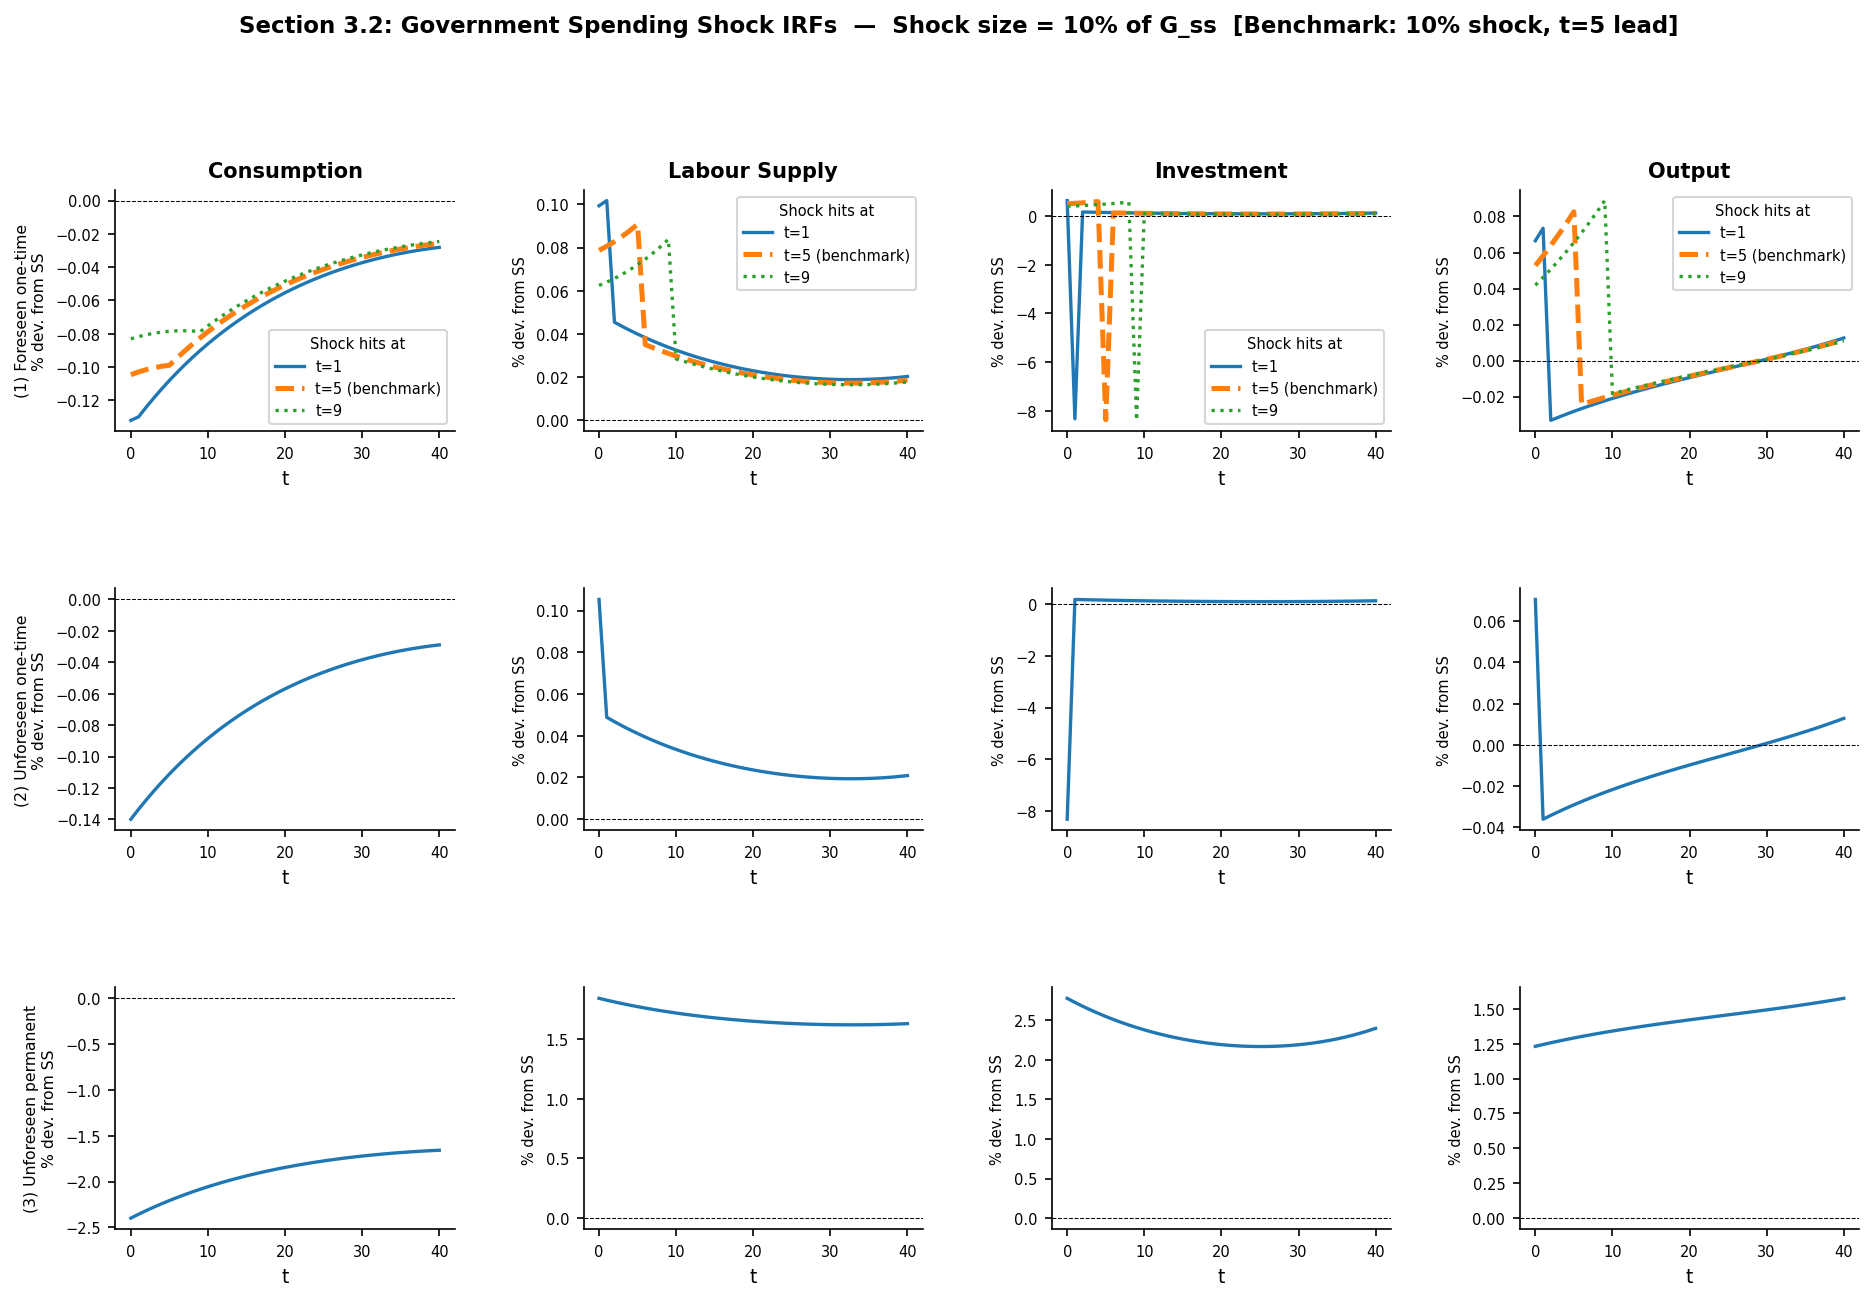
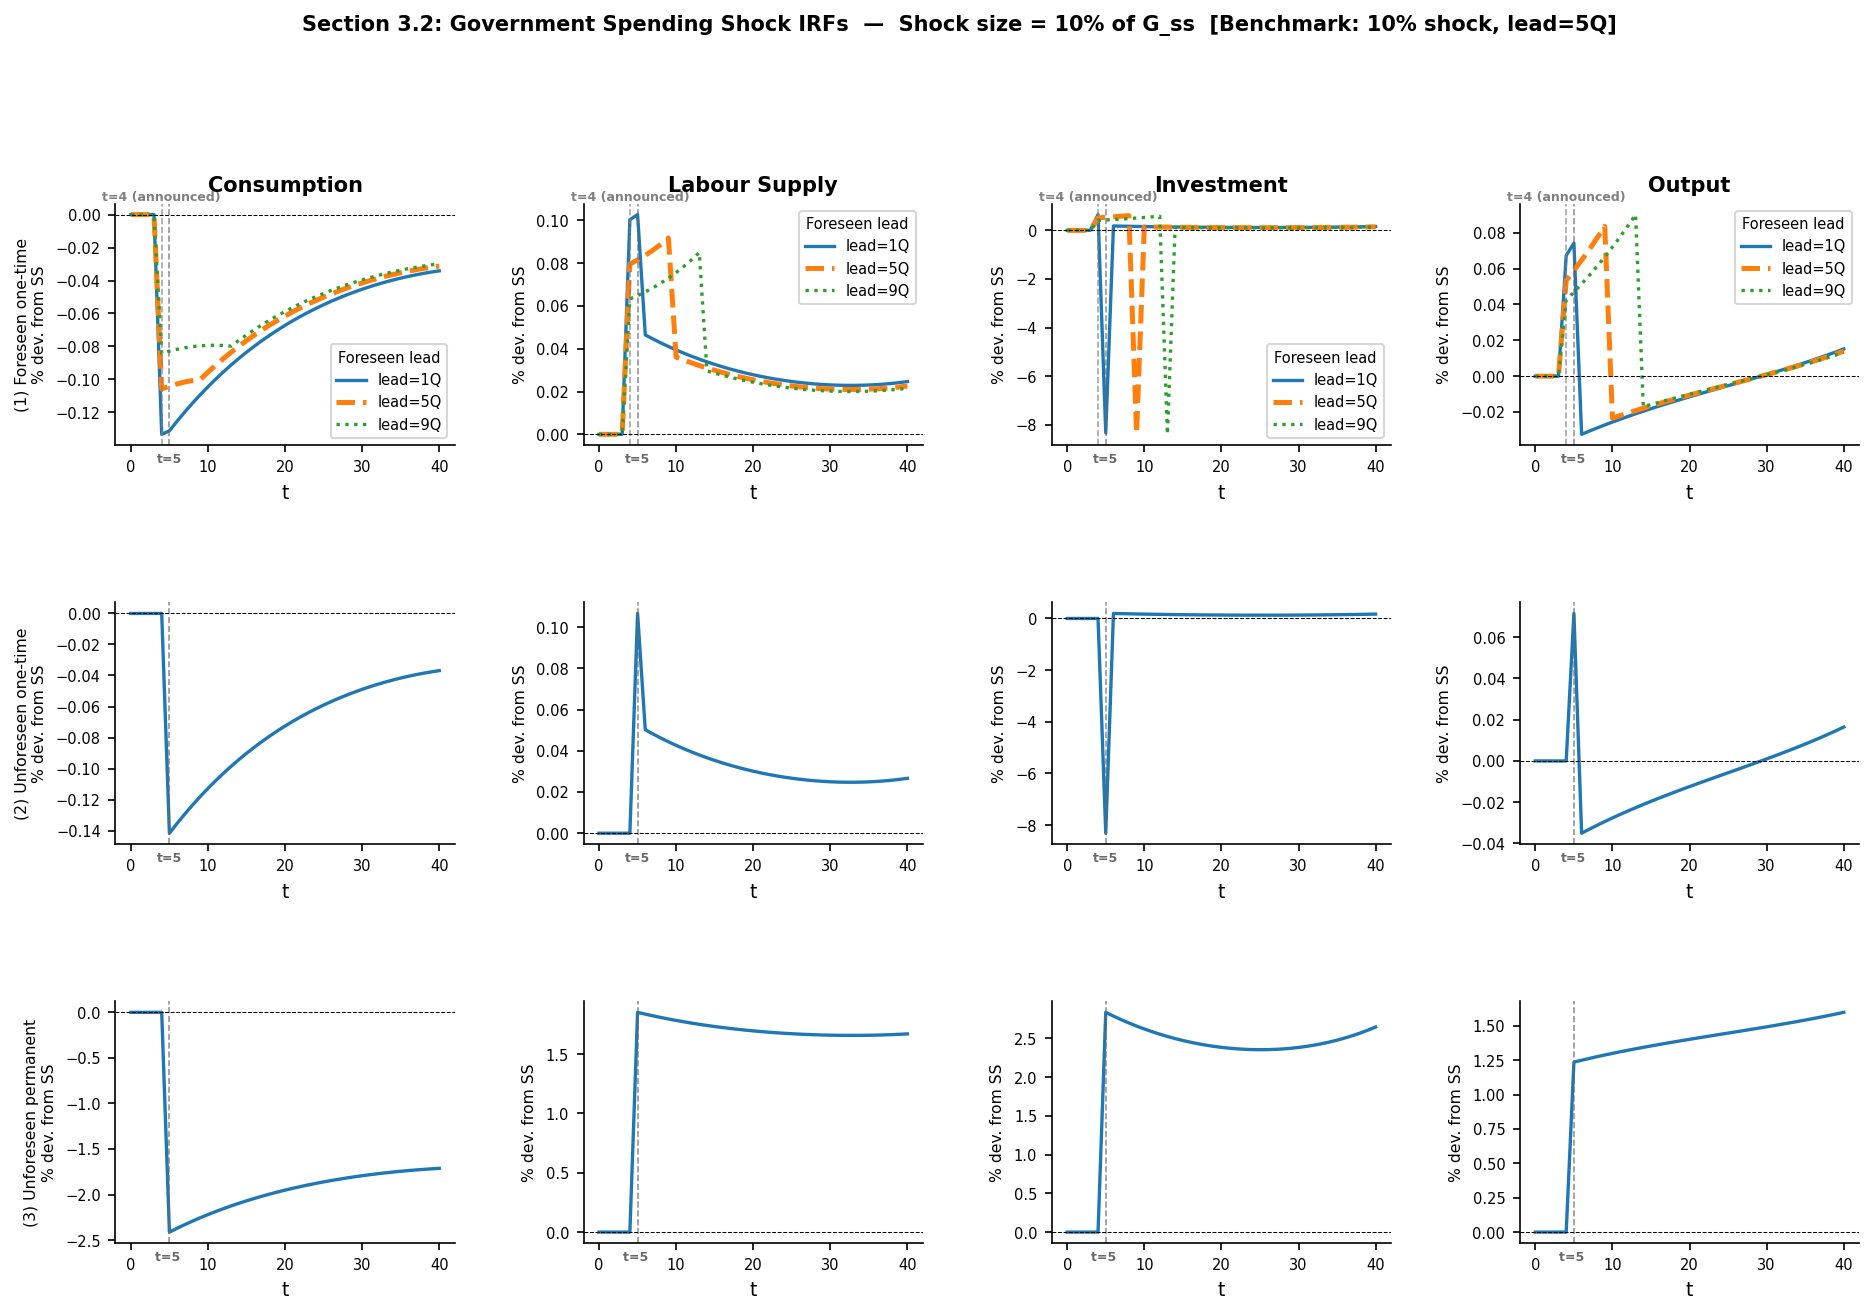
Add IRF plotting fixes

diff --git a/section_3_2_updated.py b/section_3_2_updated.py
@@ -1,3 +1,31 @@
+"""
+FE5213 Group Project - Section 3.2
+====================================
+Produces 3 figures, one per shock size (1%, 5%, 10%).
+
+Each figure: 3 rows x 4 cols (C, L, I, Y)
+  Row 1 (Foreseen one-time):    3 lines — leads 1Q, 5Q, 9Q overlaid
+  Row 2 (Unforeseen one-time):  single line
+  Row 3 (Unforeseen permanent): single line
+
+Timeline (plot time):
+  t=0 to t=3 : flat SS — nobody knows anything
+  t=4         : FORESEEN ground zero — announcement made
+  t=5         : UNFORESEEN ground zero — G hits with no warning
+                also where G first hits for foreseen lead=1Q
+  Foreseen leads:
+    lead=1Q → G hits t=5
+    lead=5Q → G hits t=9
+    lead=9Q → G hits t=13
+
+Solver domains:
+  Foreseen  : solver t=0 = plot t=4, T_DYN_FOR=36 → length 37, prepend 4 → 41
+  Unforeseen: solver t=0 = plot t=5, T_DYN_UNF=35 → length 36, prepend 5 → 41
+  tgrid: t=0 to t=40 (41 points)
+
+Benchmark: 10% shock, lead=5Q (G hits t=9)
+"""
+
 import numpy as np
 from scipy.optimize import fsolve
 import matplotlib.pyplot as plt
@@ -14,12 +42,19 @@ delta     = 0.025
 z_sim     = 1.0
 g_y_ratio = 0.20
 target_L  = 1.0 / 3.0
-T         = 40
 
-SHOCK_SIZES    = [0.01, 0.05, 0.10]   # 1%, 5%, 10% of G_ss
-FORESEEN_DATES = [1, 5, 9]            # announcement leads (quarters)
-BENCHMARK_LEAD = 5                     # benchmark foreseen lead
-BENCHMARK_SIZE = 0.10                  # benchmark shock size
+T_PRE_FOR  = 4
+T_DYN_FOR  = 36
+T_PRE_UNF  = 5
+T_DYN_UNF  = 35
+
+GROUND_ZERO_FORESEEN   = 4
+GROUND_ZERO_UNFORESEEN = 5
+
+SHOCK_SIZES    = [0.01, 0.05, 0.10]
+FORESEEN_LEADS = [1, 5, 9]
+BENCHMARK_LEAD = 5
+BENCHMARK_SIZE = 0.10
 
 # =============================================================================
 # 2. CORE MODEL EQUATIONS
@@ -76,7 +111,7 @@ def steady_state_eqs(vars, z, chi, G_fixed):
 def solve_steady_state(z, chi, G_fixed, guess=(10.0, 0.33, 1.0)):
     K, L, C = fsolve(steady_state_eqs, guess, args=(z, chi, G_fixed))
     Y = production_function(K, L, z)
-    return {"K": K, "L": L, "C": C, "Y": Y, "I": delta*K,
+    return {"K": K, "L": L, "C": C, "Y": Y, "I": delta * K,
             "G": G_fixed, "w": marginal_product_labor(K, L, z),
             "rk": marginal_product_capital(K, L, z)}
 
@@ -98,12 +133,13 @@ def transition_system(x, K0, z, chi, G_path, terminal_K):
             return np.ones(3*(T_loc+1)) * 1e6
         Y_t = production_function(K_t, L_t, z)
         w_t = marginal_product_labor(K_t, L_t, z)
-        eqs.append(chi*(L_t**phi) - w_t*(C_t**(-sigma)))
+        eqs.append(chi * (L_t**phi) - w_t * (C_t**(-sigma)))
         eqs.append(Y_t - C_t - G_t - (K_next_path[t] - (1-delta)*K_t))
 
     for t in range(T_loc):
         rk_tp1 = marginal_product_capital(K_next_path[t], L_path[t+1], z)
-        eqs.append((C_path[t]**(-sigma)) - beta*(C_path[t+1]**(-sigma))*(rk_tp1+1-delta))
+        eqs.append((C_path[t]**(-sigma))
+                   - beta * (C_path[t+1]**(-sigma)) * (rk_tp1 + 1 - delta))
 
     eqs.append(K_next_path[T_loc] - terminal_K)
     return np.array(eqs)
@@ -120,8 +156,8 @@ def solve_transition(K0, z, chi, G_path, initial_ss, terminal_ss):
                  args=(K0, z, chi, G_path, terminal_ss["K"]),
                  xtol=1e-10, maxfev=50000)
 
-    C_path      = sol[0       : T_loc+1]
-    L_path      = sol[T_loc+1 : 2*(T_loc+1)]
+    C_path      = sol[0          : T_loc+1]
+    L_path      = sol[T_loc+1    : 2*(T_loc+1)]
     K_next_path = sol[2*(T_loc+1): 3*(T_loc+1)]
 
     K_path    = np.zeros(T_loc+1)
@@ -139,22 +175,31 @@ def solve_transition(K0, z, chi, G_path, initial_ss, terminal_ss):
     return {"K": K_path, "C": C_path, "L": L_path,
             "Y": Y_path, "I": I_path, "G": G_path}
 
+
+def prepend_ss(res, ss, n_pre):
+    out = {}
+    for var in ["C", "L", "Y", "I", "K", "G"]:
+        pre = np.full(n_pre, ss[var])
+        out[var] = np.concatenate([pre, res[var]])
+    return out
+
 # =============================================================================
 # 5. SHOCK PATH BUILDERS
 # =============================================================================
 
-def make_foreseen_path(G_ss, shock_size, T_sim, lead):
-    path = np.full(T_sim+1, G_ss)
-    path[lead] = G_ss * (1.0 + shock_size)
+def make_foreseen_path(G_ss, shock_size, lead):
+    path = np.full(T_DYN_FOR + 1, G_ss)
+    if lead <= T_DYN_FOR:
+        path[lead] = G_ss * (1.0 + shock_size)
     return path
 
-def make_unforeseen_onetime_path(G_ss, shock_size, T_sim):
-    path = np.full(T_sim+1, G_ss)
+def make_unforeseen_onetime_path(G_ss, shock_size):
+    path = np.full(T_DYN_UNF + 1, G_ss)
     path[0] = G_ss * (1.0 + shock_size)
     return path
 
-def make_permanent_path(G_ss, shock_size, T_sim):
-    return np.full(T_sim+1, G_ss * (1.0 + shock_size))
+def make_permanent_path(G_ss, shock_size):
+    return np.full(T_DYN_UNF + 1, G_ss * (1.0 + shock_size))
 
 # =============================================================================
 # 6. PLOTTING
@@ -166,23 +211,16 @@ def pct_dev(path, ss_val):
 
 def plot_figure(foreseen_by_lead, res_unforeseen, res_permanent,
                 ss, shock_size_pct, save_path=None):
-    """
-    One figure per shock size. 3 rows x 4 cols.
-      Row 1: foreseen — 3 lines (t=1, 5, 9) overlaid; t=5 is benchmark
-      Row 2: unforeseen one-time — single line
-      Row 3: unforeseen permanent — single line
-    """
-    vars_plot  = [("C","Consumption"), ("L","Labour Supply"),
-                  ("I","Investment"),  ("Y","Output")]
-    row_labels = [
-        "(1) Foreseen one-time",
-        "(2) Unforeseen one-time",
-        "(3) Unforeseen permanent",
-    ]
+
+    vars_plot  = [("C", "Consumption"), ("L", "Labour Supply"),
+                  ("I", "Investment"),  ("Y", "Output")]
+    row_labels = ["(1) Foreseen one-time",
+                  "(2) Unforeseen one-time",
+                  "(3) Unforeseen permanent"]
     colors     = ["#1f77b4", "#ff7f0e", "#2ca02c"]
     linestyles = ["-", "--", ":"]
-    linewidths = [1.6, 1.6, 1.6]
-    tgrid      = np.arange(T + 1)
+
+    tgrid = np.arange(T_PRE_FOR + T_DYN_FOR + 1)   # 41 points t=0..40
 
     fig, axes = plt.subplots(
         3, 4, figsize=(15, 9),
@@ -193,63 +231,80 @@ def plot_figure(foreseen_by_lead, res_unforeseen, res_permanent,
 
     for col, (var, var_label) in enumerate(vars_plot):
 
-        # Row 0: foreseen, 3 leads overlaid
+        # ── Row 0: foreseen ───────────────────────────────────────────────────
         ax = axes[0, col]
-        for (lead, color, ls, lw) in zip(
-                FORESEEN_DATES, colors, linestyles, linewidths):
-            # thicker line for benchmark lead
-            lw_use = 2.4 if (lead == BENCHMARK_LEAD and is_benchmark) else lw
-            label  = f"t={lead} (benchmark)" if (
-                lead == BENCHMARK_LEAD and is_benchmark) else f"t={lead}"
-            ax.plot(tgrid, pct_dev(foreseen_by_lead[lead][var], ss[var]),
-                    label=label, color=color,
-                    linewidth=lw_use, linestyle=ls)
+        for lead, color, ls in zip(FORESEEN_LEADS, colors, linestyles):
+            lw    = 2.4 if (lead == BENCHMARK_LEAD and is_benchmark) else 1.6
+            label = (f"lead={lead}Q"
+                     if lead == BENCHMARK_LEAD and is_benchmark
+                     else f"lead={lead}Q")
+            full = prepend_ss(foreseen_by_lead[lead], ss, n_pre=T_PRE_FOR)
+            ax.plot(tgrid, pct_dev(full[var], ss[var]),
+                    label=label, color=color, linewidth=lw, linestyle=ls)
+
+        ax.axvline(GROUND_ZERO_FORESEEN, color="gray", linewidth=0.8,
+                   linestyle="--", alpha=0.7)
+        ax.text(GROUND_ZERO_FORESEEN, 1, f"t={GROUND_ZERO_FORESEEN} (announced)",
+                fontsize=6, color="gray", fontweight="bold",
+                ha="center", va="bottom", transform=ax.get_xaxis_transform())
+        ax.axvline(GROUND_ZERO_UNFORESEEN, color="dimgray", linewidth=0.8,
+                   linestyle="--", alpha=0.7, ymin=0, ymax=1)
+        ax.text(GROUND_ZERO_UNFORESEEN, -0.03, f"t={GROUND_ZERO_UNFORESEEN}",
+                fontsize=6, color="dimgray", fontweight="bold",
+                ha="center", va="top", transform=ax.get_xaxis_transform())
         ax.axhline(0, color="black", linewidth=0.5, linestyle="--")
         ax.set_title(var_label, fontsize=10, fontweight="bold", pad=6)
-        if col == 0:
-            ax.set_ylabel(row_labels[0] + "\n% dev. from SS", fontsize=7.5)
-        else:
-            ax.set_ylabel("% dev. from SS", fontsize=7)
+        ax.set_ylabel(row_labels[0] + "\n% dev. from SS"
+                      if col == 0 else "% dev. from SS", fontsize=7.5)
         ax.set_xlabel("t", fontsize=9)
         ax.tick_params(labelsize=7)
         ax.spines["top"].set_visible(False)
         ax.spines["right"].set_visible(False)
-        ax.legend(fontsize=7, title="Shock hits at",
+        ax.legend(fontsize=7, title="Foreseen lead",
                   title_fontsize=7, loc="best")
 
-        # Row 1: unforeseen one-time
+        # ── Row 1: unforeseen one-time ─────────────────────────────────────────
         ax = axes[1, col]
-        ax.plot(tgrid, pct_dev(res_unforeseen[var], ss[var]),
+        full = prepend_ss(res_unforeseen, ss, n_pre=T_PRE_UNF)
+        ax.plot(tgrid, pct_dev(full[var], ss[var]),
                 color="#1f77b4", linewidth=1.6)
+        ax.axvline(GROUND_ZERO_UNFORESEEN, color="dimgray", linewidth=0.8,
+                   linestyle="--", alpha=0.7, ymin=0, ymax=1)
+        ax.text(GROUND_ZERO_UNFORESEEN, -0.03, f"t={GROUND_ZERO_UNFORESEEN}",
+                fontsize=6, color="dimgray", fontweight="bold",
+                ha="center", va="top", transform=ax.get_xaxis_transform())
         ax.axhline(0, color="black", linewidth=0.5, linestyle="--")
-        if col == 0:
-            ax.set_ylabel(row_labels[1] + "\n% dev. from SS", fontsize=7.5)
-        else:
-            ax.set_ylabel("% dev. from SS", fontsize=7)
+        ax.set_ylabel(row_labels[1] + "\n% dev. from SS"
+                      if col == 0 else "% dev. from SS", fontsize=7.5)
         ax.set_xlabel("t", fontsize=9)
         ax.tick_params(labelsize=7)
         ax.spines["top"].set_visible(False)
         ax.spines["right"].set_visible(False)
 
-        # Row 2: unforeseen permanent
+        # ── Row 2: unforeseen permanent ────────────────────────────────────────
         ax = axes[2, col]
-        ax.plot(tgrid, pct_dev(res_permanent[var], ss[var]),
+        full = prepend_ss(res_permanent, ss, n_pre=T_PRE_UNF)
+        ax.plot(tgrid, pct_dev(full[var], ss[var]),
                 color="#1f77b4", linewidth=1.6)
+        ax.axvline(GROUND_ZERO_UNFORESEEN, color="dimgray", linewidth=0.8,
+                   linestyle="--", alpha=0.7, ymin=0, ymax=1)
+        ax.text(GROUND_ZERO_UNFORESEEN, -0.03, f"t={GROUND_ZERO_UNFORESEEN} ",
+                fontsize=6, color="dimgray", fontweight="bold",
+                ha="center", va="top", transform=ax.get_xaxis_transform())
         ax.axhline(0, color="black", linewidth=0.5, linestyle="--")
-        if col == 0:
-            ax.set_ylabel(row_labels[2] + "\n% dev. from SS", fontsize=7.5)
-        else:
-            ax.set_ylabel("% dev. from SS", fontsize=7)
+        ax.set_ylabel(row_labels[2] + "\n% dev. from SS"
+                      if col == 0 else "% dev. from SS", fontsize=7.5)
         ax.set_xlabel("t", fontsize=9)
         ax.tick_params(labelsize=7)
         ax.spines["top"].set_visible(False)
         ax.spines["right"].set_visible(False)
 
-    benchmark_note = "  [Benchmark: 10% shock, t=5 lead]" if is_benchmark else ""
+    # Single legend for dashed lines in the figure suptitle area
+    benchmark_note = "  [Benchmark: 10% shock, lead=5Q]" if is_benchmark else ""
     fig.suptitle(
         f"Section 3.2: Government Spending Shock IRFs  —  "
-        f"Shock size = {shock_size_pct}% of G_ss{benchmark_note}",
-        fontsize=11, fontweight="bold", y=1.01
+        f"Shock size = {shock_size_pct}% of G_ss{benchmark_note}\n",
+        fontsize=10, fontweight="bold", y=1.02
     )
 
     if save_path:
@@ -268,14 +323,19 @@ if __name__ == "__main__":
     chi    = calib["chi"]
     ss_ref = solve_steady_state(z_sim, chi, calib["G"])
 
-    print("=" * 50)
+    print("=" * 55)
     print("BASELINE STEADY STATE")
-    print("=" * 50)
+    print("=" * 55)
     for k, v in ss_ref.items():
         print(f"  {k:<6}: {v:.4f}")
     print(f"  {'chi':<6}: {chi:.4f}")
-    print(f"\nBenchmark: shock size = {int(BENCHMARK_SIZE*100)}%, "
-          f"foreseen lead = t={BENCHMARK_LEAD}\n")
+    print(f"\nForeseen  : announced t={GROUND_ZERO_FORESEEN}, "
+          f"G hits t={GROUND_ZERO_FORESEEN+1}/"
+          f"t={GROUND_ZERO_FORESEEN+5}/"
+          f"t={GROUND_ZERO_FORESEEN+9}")
+    print(f"Unforeseen: G hits t={GROUND_ZERO_UNFORESEEN} (no prior notice)")
+    print(f"Benchmark : {int(BENCHMARK_SIZE*100)}% shock, lead={BENCHMARK_LEAD}Q "
+          f"(G hits t={GROUND_ZERO_FORESEEN+BENCHMARK_LEAD})\n")
 
     G_ss = ss_ref["G"]
 
@@ -283,29 +343,28 @@ if __name__ == "__main__":
         size_pct = int(shock_size * 100)
         print(f"\n--- Shock size = {size_pct}% ---")
 
-        # Foreseen: 3 leads
         foreseen_by_lead = {}
-        for lead in FORESEEN_DATES:
-            G_path = make_foreseen_path(G_ss, shock_size, T, lead)
+        for lead in FORESEEN_LEADS:
+            G_path = make_foreseen_path(G_ss, shock_size, lead)
             foreseen_by_lead[lead] = solve_transition(
                 ss_ref["K"], z_sim, chi, G_path, ss_ref, ss_ref)
-            print(f"  Foreseen lead=t{lead} done.")
+            print(f"  Foreseen lead={lead}Q "
+                  f"(announced t={GROUND_ZERO_FORESEEN}, "
+                  f"G hits t={GROUND_ZERO_FORESEEN+lead}) done.")
 
-        # Unforeseen one-time at t=0
-        G_unf = make_unforeseen_onetime_path(G_ss, shock_size, T)
+        G_unf = make_unforeseen_onetime_path(G_ss, shock_size)
         res_unforeseen = solve_transition(
             ss_ref["K"], z_sim, chi, G_unf, ss_ref, ss_ref)
-        print(f"  Unforeseen one-time done.")
+        print(f"  Unforeseen one-time (G hits t={GROUND_ZERO_UNFORESEEN}) done.")
 
-        # Unforeseen permanent at t=0
         terminal_perm = solve_steady_state(
             z_sim, chi, G_ss * (1.0 + shock_size),
             guess=(ss_ref["K"], ss_ref["L"], ss_ref["C"])
         )
-        G_perm = make_permanent_path(G_ss, shock_size, T)
+        G_perm = make_permanent_path(G_ss, shock_size)
         res_permanent = solve_transition(
             ss_ref["K"], z_sim, chi, G_perm, ss_ref, terminal_perm)
-        print(f"  Unforeseen permanent done.")
+        print(f"  Unforeseen permanent (G rises t={GROUND_ZERO_UNFORESEEN}) done.")
 
         plot_figure(
             foreseen_by_lead, res_unforeseen, res_permanent,
